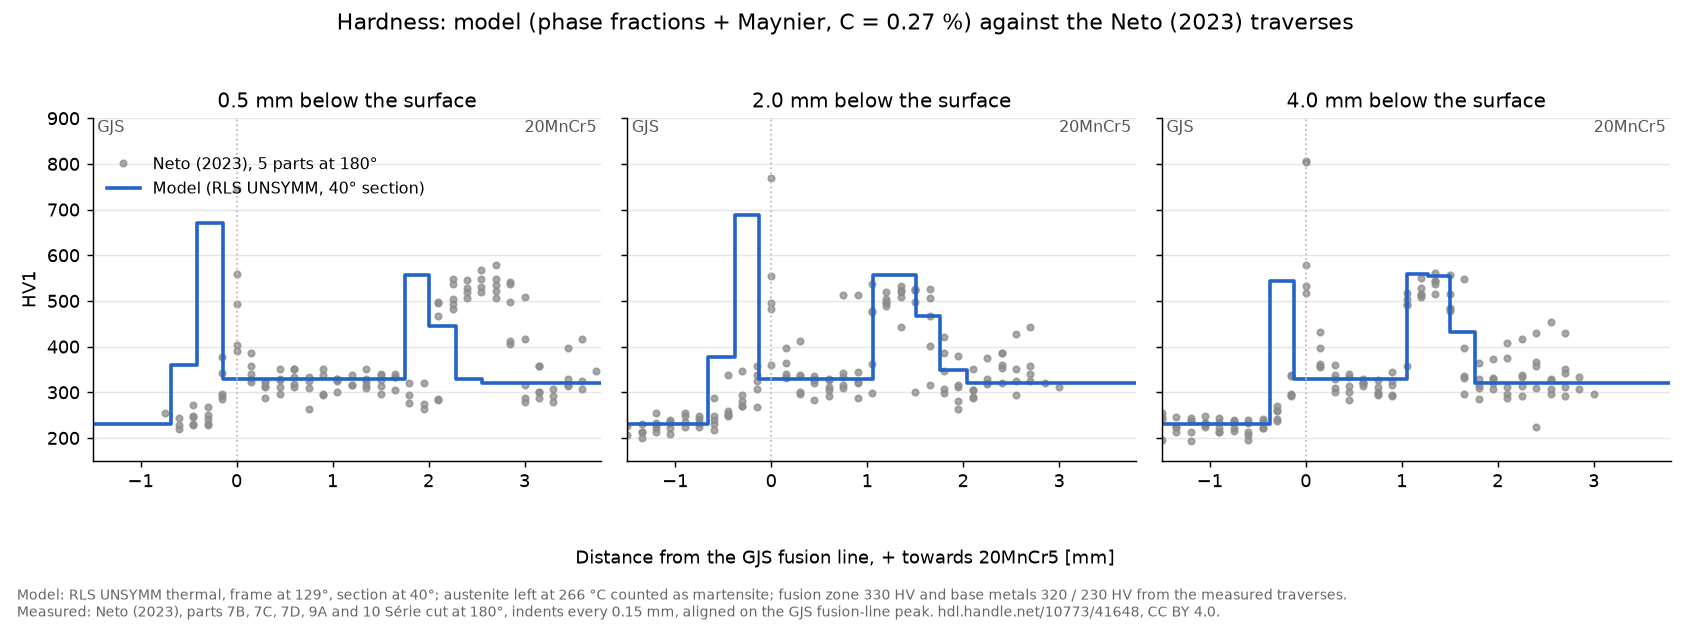
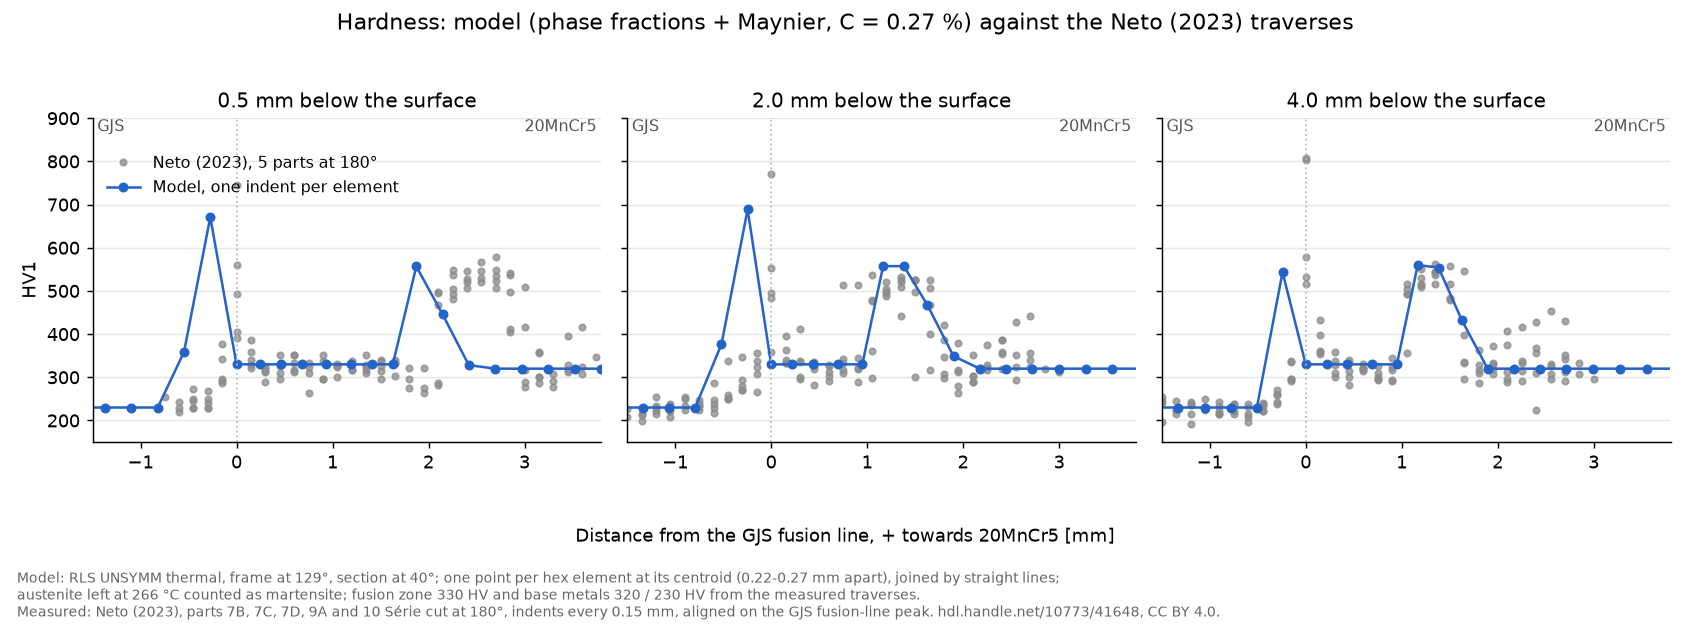
Project 02: hardness traverses of the model as one point per element joined by straight lines

diff --git a/02_dflux_laser_welding/README.md b/02_dflux_laser_welding/README.md
@@ -370,7 +370,7 @@ Neto values: medians of the five parts. The peak hardness of the steel HAZ is wi
 - **The cast iron is far outside it**, and the formula is applied there knowing it: 3.1-3.4 % carbon and 4.2-4.5 % silicon in EN-GJS-600-10. Only the matrix is treated, as a steel with an assumed 0.5 % carbon and the silicon of the cast iron. The cast-iron results are therefore expected to differ from the measurements, and they do (671-689 against 493-496 HV at 0.5 and 2 mm).
 - **No ledeburite and no graphite in the model.** In the partially melted zone next to the fusion line the cast iron forms ledeburite (about 800-1 000 HV) that the phase cards do not have. The graphite nodules are not represented either: they are soft, and their partial dissolution enriches the surrounding matrix in carbon, which hardens its martensite. An indent that lands on a nodule, on a ledeburite band or on an inclusion reads very differently from its neighbour: the measured cast-iron peak is a single indent and scatters from about 490 to 807 HV between parts.
 - **Initial state of the steel.** The crown starts as 100 % ferrite in the framework, standing for its quenched-and-tempered core, and does not fully austenitise just above Ac3 (up to half the ferrite is left), which narrows the hard band at 0.5 mm. Tempering of that core in the outer HAZ is not modelled.
-- **Mesh resolution.** The hex elements are 0.22 mm across the joint near the fusion lines (0.27 mm further out), about one and a half indent spacings, so the model profile is a staircase; an indent-by-indent comparison needs a finer HAZ mesh.
+- **Mesh resolution.** The model gives one hardness per hex element, plotted at its centroid (one "indent" per element) and joined by straight lines. The elements are 0.22 mm across the joint near the fusion lines (0.27 mm further out), about one and a half indent spacings, so narrow peaks are resolved by one or two points; an indent-by-indent comparison needs a finer HAZ mesh.
 
 ---
 
